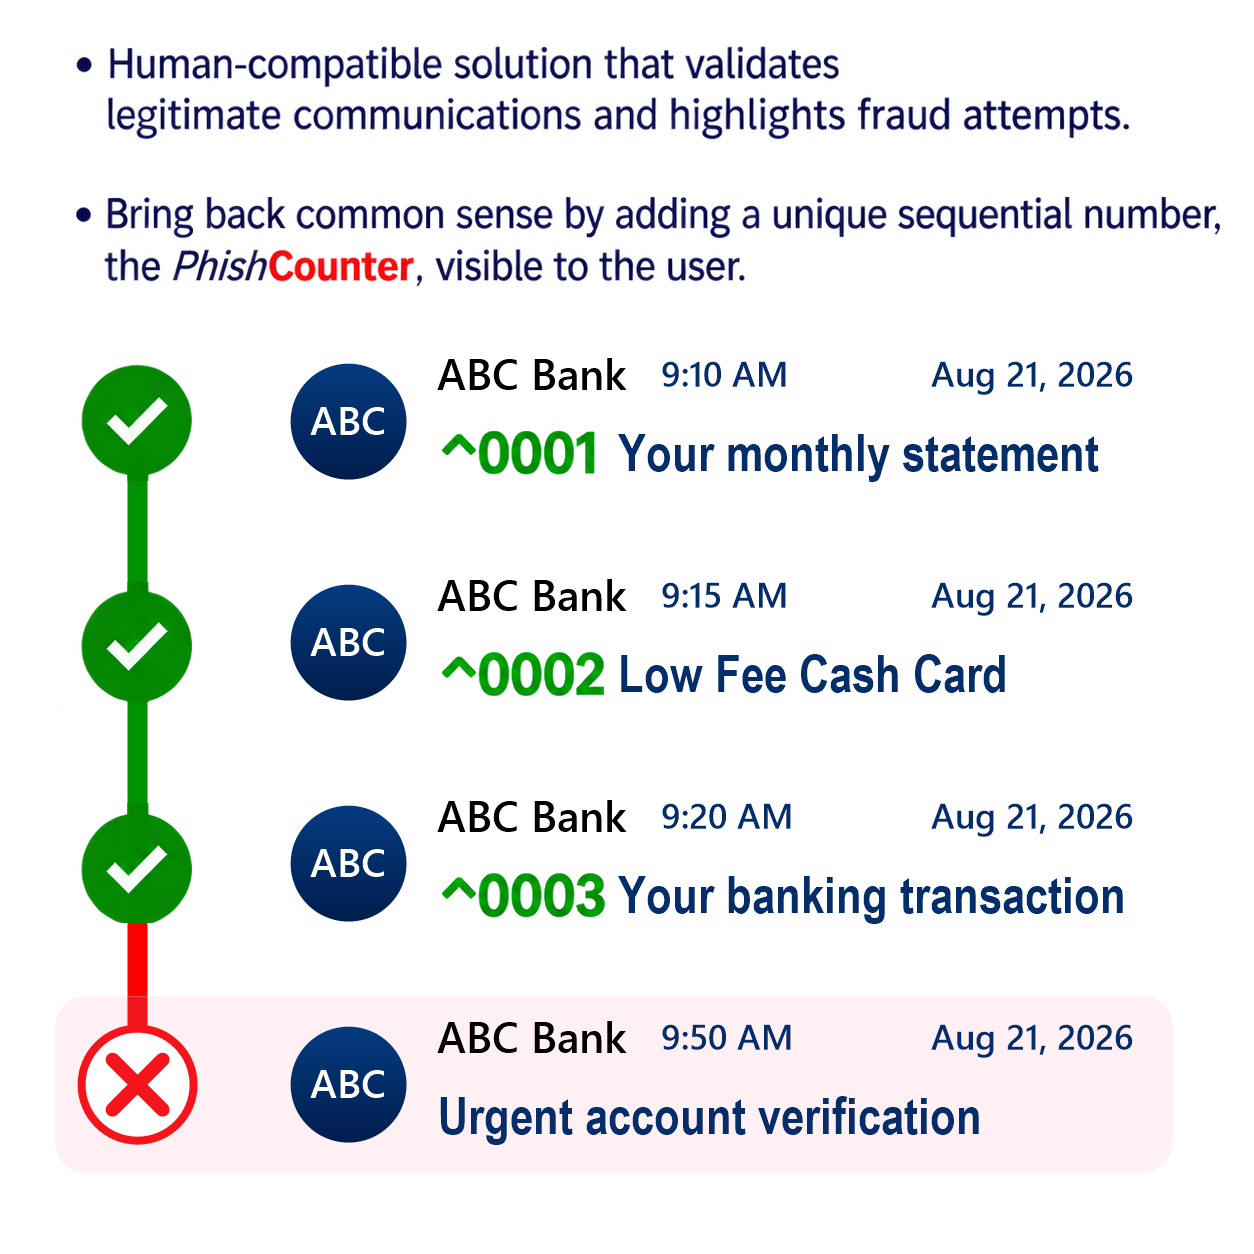
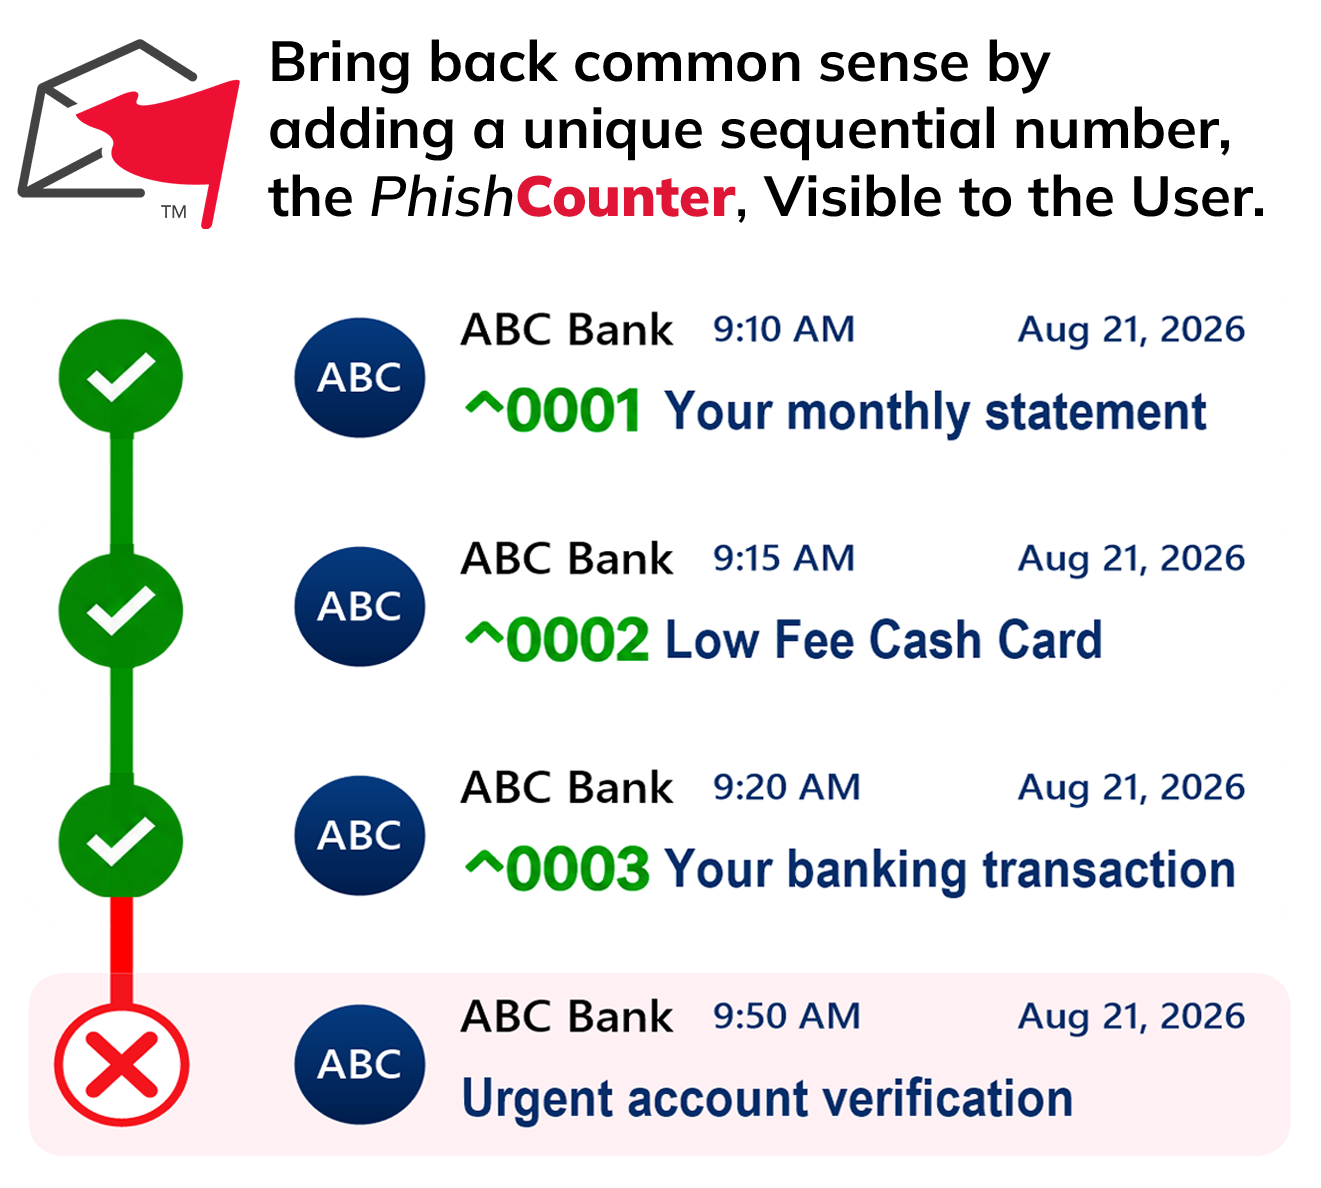
Home hero: enlarge center image, remove Tailwind's implicit max-width cap
- Tailwind's preflight caps all <img> at max-width:100%, which was
  silently overriding the width utility on the center hero image no
  matter what percentage was set. Added max-w-none so the width
  actually takes effect.
- Center hero image nudged right and resized to fill its column
  properly
- Widened the three-image hero row container (1120px -> 1400px)
- Updated hero v2/v3 image assets

diff --git a/src/pages/Home.jsx b/src/pages/Home.jsx
@@ -45,7 +45,7 @@ export default function Home() {
       <SectionCounter value="^0001" />
       <PageDownButton targetSelector="#pane-0002" />
       <div className="mx-auto max-w-content">
-      <div className="mx-auto mt-10 flex w-full max-w-[1120px] flex-col items-stretch justify-center gap-3 sm:mt-14 lg:flex-row lg:items-center lg:gap-6">
+      <div className="mx-auto mt-10 flex w-full max-w-[1400px] flex-col items-stretch justify-center gap-3 sm:mt-14 lg:flex-row lg:items-center lg:gap-6">
         <div className="min-w-0 lg:flex-1">
           <img
             src="/assets/images/hero%20v1.png"
@@ -57,7 +57,7 @@ export default function Home() {
           <img
             src="/assets/images/hero%20v2.png"
             alt="PhishCounter sequence verification on ABC Bank messages"
-            className="mx-auto h-auto w-[92%] translate-y-11 object-contain"
+            className="mx-auto h-auto w-[100%] max-w-none translate-x-4 translate-y-11 object-contain"
           />
         </div>
         <div className="min-w-0 lg:flex-1">
